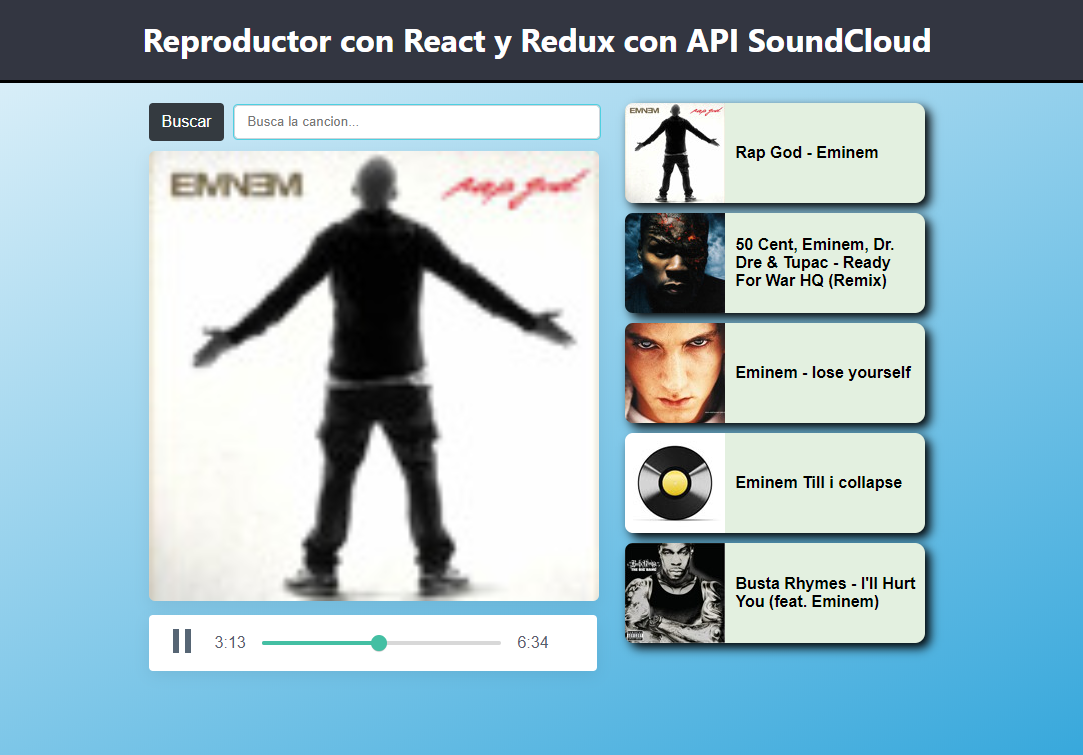
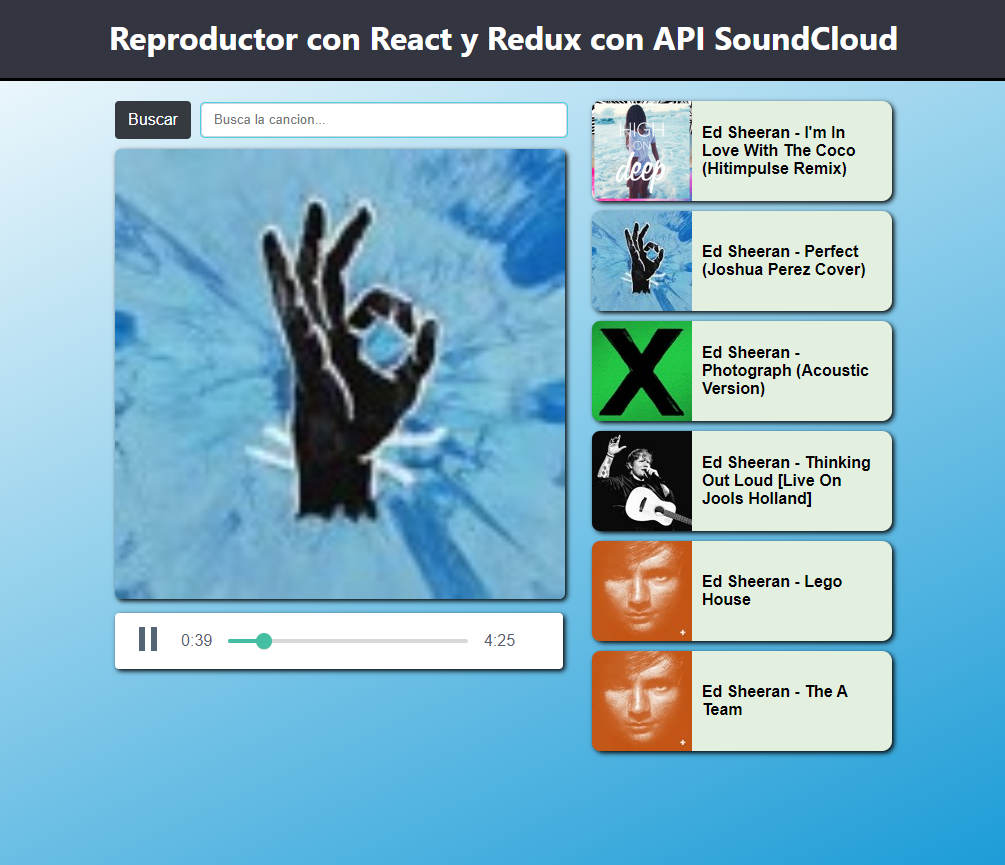
transicion targeta css y player controller totalmente funcional

diff --git a/src/components/AudioPlayerControll.jsx b/src/components/AudioPlayerControll.jsx
@@ -11,25 +11,41 @@ class AudioPlayerControll extends Component {
 
 
         this.state = {
-            playPauseIcon: "M0 0h6v24H0zM12 0h6v24h-6z",
+            playPauseIcon: "M18 12L0 24V0",
             totalTime: "-:--",
             currentTime: "-:--",
             progressPrecentaje: "0%",
             startSong: true,
+            player: props.playerSC
         };
 
         this.onPlayPauseClick = this.onPlayPauseClick.bind(this);
     }
 
+    ////////////LIFE CICLE///////////////
+
+    static getDerivedStateFromProps(props, state){
+        if (props.playerSC !== state.player) {
+            console.log("Eureca")
+            state.startSong = true
+            state.playPauseIcon = "M0 0h6v24H0zM12 0h6v24h-6z"
+          }
+        return null
+    }
+
     componentDidUpdate() {
         if (this.props.playerSC != null && this.state.startSong) {
             this.startProgressControll()
+            this.onFinish()
             this.setState({
                 startSong: false,
+                player: this.props.playerSC,
             })
         }
         return null
     }
+
+    ////////////SHORTEN FUNCTIONS///////////////
 
 
     startProgressControll() {
@@ -70,6 +86,17 @@ class AudioPlayerControll extends Component {
             let current = parseInt(currentTime, 10)
             return current / dur * 100;
         }
+    }
+
+
+    ////////////////LISTENERS//////////////////////
+
+    onFinish() {
+        this.props.playerSC.on("finish", () => {
+            this.setState({
+                playPauseIcon: "M18 12L0 24V0",
+            })
+        })
     }
 
 

diff --git a/src/view/MediaPlayer.jsx b/src/view/MediaPlayer.jsx
@@ -63,7 +63,6 @@ class MediaPlayer extends Component {
         SC.stream('/tracks/' + id)
             .then((player) => {
                 player.play()
-                console.log(player)
                 this.props.newPlayerSC(player)
             });
         this.props.newImagePlayer(src)
@@ -99,10 +98,6 @@ class MediaPlayer extends Component {
             image = ImagePlayer
         }
         return image
-    }
-
-    onPlay() {
-
     }
 
 

diff --git a/src/components/CardSong.css b/src/components/CardSong.css
@@ -16,11 +16,17 @@
     margin-bottom: 10px;
     width: 300px;
     min-height: 100px;
-    box-shadow: 5px 5px 10px;
+    box-shadow: 2.5px 2.5px 5px;
     border-radius: 10px;
     font-family: Arial, Helvetica, sans-serif;
     overflow: none;
     background: #e3f0e0;
+    transition: all .2s ease-in-out;
+}
+
+.CardSong:hover {
+    transform: scale(1.05);
+    z-index: 1;
 }
 
 .cardTitle {

diff --git a/src/components/AudioPlayerControll.css b/src/components/AudioPlayerControll.css
@@ -3,7 +3,7 @@
     width: 400px;
     min-width: 300px;
     height: 56px;
-    box-shadow: 0 4px 16px 0 rgba(0, 0, 0, .07);
+    box-shadow: 2.5px 2.5px 5px;
     display: flex;
     justify-content: flex-start;
     align-items: center;

diff --git a/src/components/Player.css b/src/components/Player.css
@@ -3,4 +3,5 @@
     border-radius: 6px;
     min-height: 450px;
     min-width: 450px;
+    box-shadow: 2.5px 2.5px 5px;
 }

diff --git a/README.md b/README.md
@@ -14,9 +14,9 @@ Para la construcción de la web se ha utilizado react y redux, el API de Sound C
 
 ### Elementos y funcionalidades
 
-* Buscador de canciones: Petición get a la api de soundcloud.
+* Buscador de canciones: Petición get a la api de soundcloud mediante libreria importada.
 
 * Seleccionar canción con drag and drop.
 
-* Player controller, funcionalidad sin terminar.
+* Player controller funcional, con play/pause y barra de progreso no interactiva.
 
